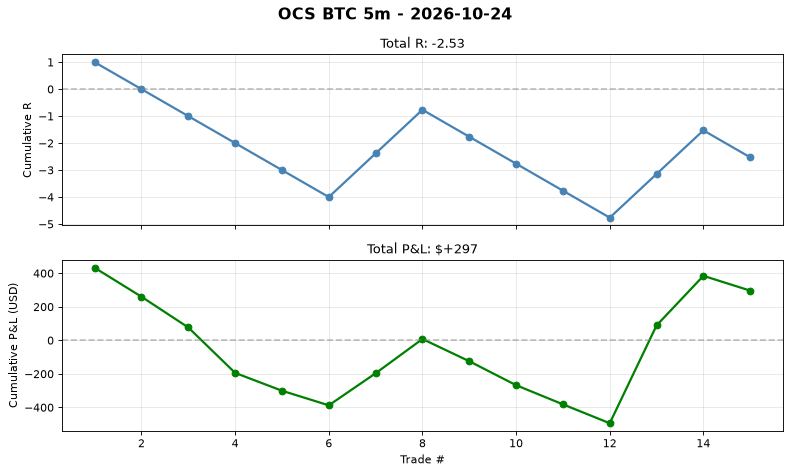
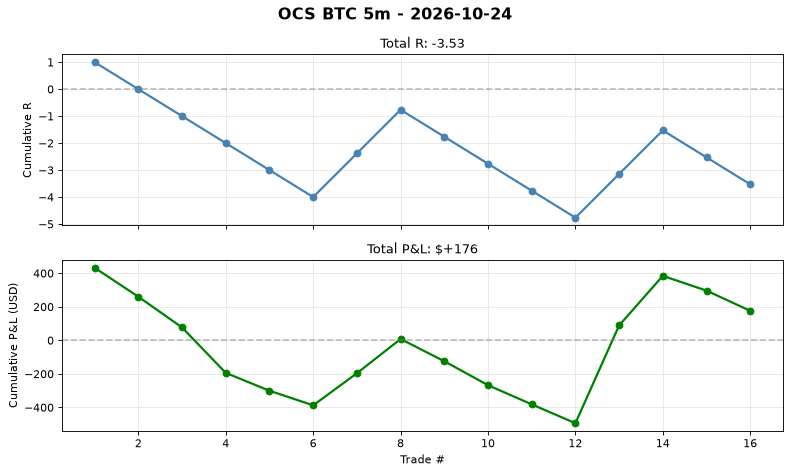
auto(ocs-btc): signal log 2026-10-24T11:24 trades=16

diff --git a/automation/reports/ocs_btc_5m/daily/2026-10-24.md b/automation/reports/ocs_btc_5m/daily/2026-10-24.md
@@ -1,12 +1,12 @@
 # OCS BTC 5m - 2026-10-24
 
 ## Summary
-- **Trades**: 1 (0W / 1L)
+- **Trades**: 2 (0W / 2L)
 - **Win Rate**: 0.0%
-- **Total R**: -1.00R
-- **Total P&L**: $-88
+- **Total R**: -2.00R
+- **Total P&L**: $-208
 - **Avg R**: -1.00R
-- **Profit Factor**: 0.75
+- **Profit Factor**: 0.68
 
 ## Exit Breakdown
 - T1 (+1.0R): 1
@@ -14,7 +14,7 @@
 - T3 (+2.618R): 0
 - T4 (+3.618R): 0
 - T5 (+5.0R): 0
-- SL (-1.0R): 10
+- SL (-1.0R): 11
 
 ## Best Trade
 - **SHORT** at 80,672 -> SL 80,760
@@ -27,11 +27,11 @@
 - Held for 8 bars
 
 ## Cumulative Stats (Lifetime)
-- Total trades: 15
-- WR: 33.3%
-- Avg R: -0.169
-- Total R: -2.53R
-- Profit Factor: 0.75
+- Total trades: 16
+- WR: 31.2%
+- Avg R: -0.22
+- Total R: -3.53R
+- Profit Factor: 0.68
 
 ## Chart
 See `daily/2026-10-24.png` for cumulative P&L curve.
